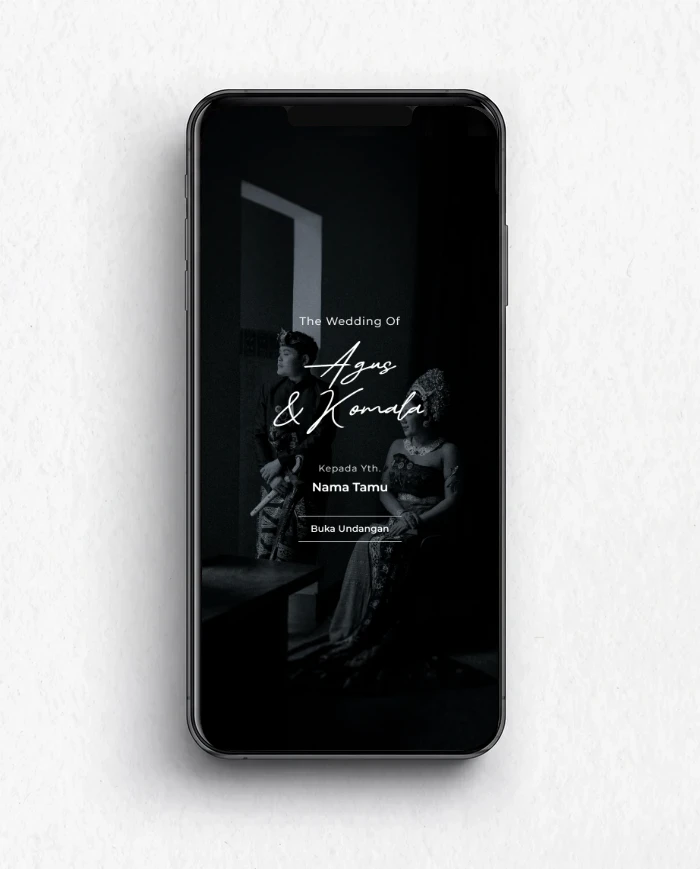
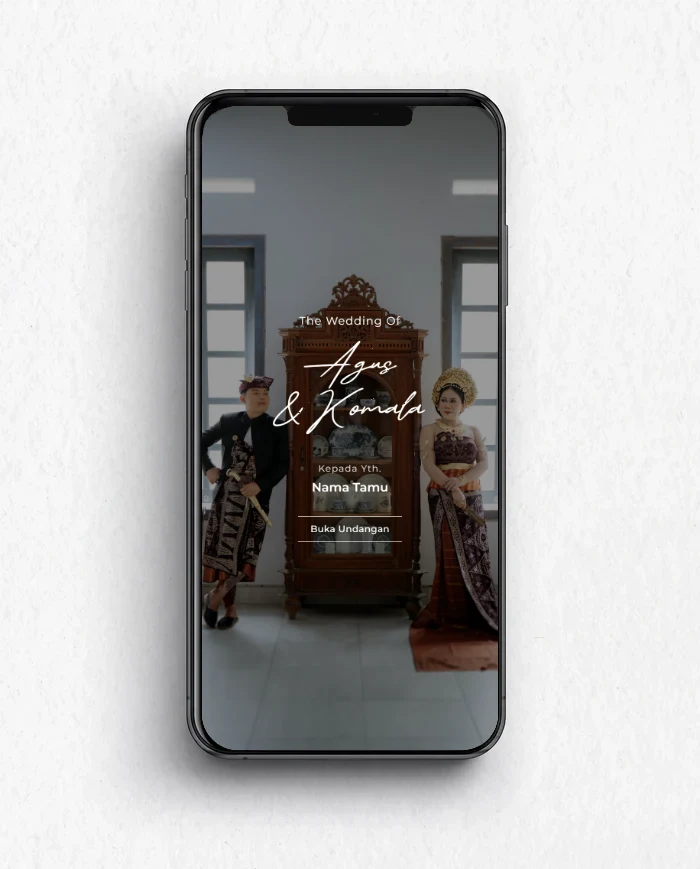
fix(serenade): update cover and scope init script

Changed region(s): [[0.27, 0.1243, 0.72, 0.87]]

diff --git a/src/templates/serenade/script.js b/src/templates/serenade/script.js
@@ -8,7 +8,7 @@ import {
 } from '../../scripts/template-modules';
 
 function initSerenade() {
-  const root = document.querySelector('body.template-serenade [data-template-root]') || document.querySelector('[data-template-root]');
+  const root = document.querySelector('body.template-serenade [data-template-root]');
   if (!root) return;
 
   const cover = root.querySelector('[data-template-cover]');
